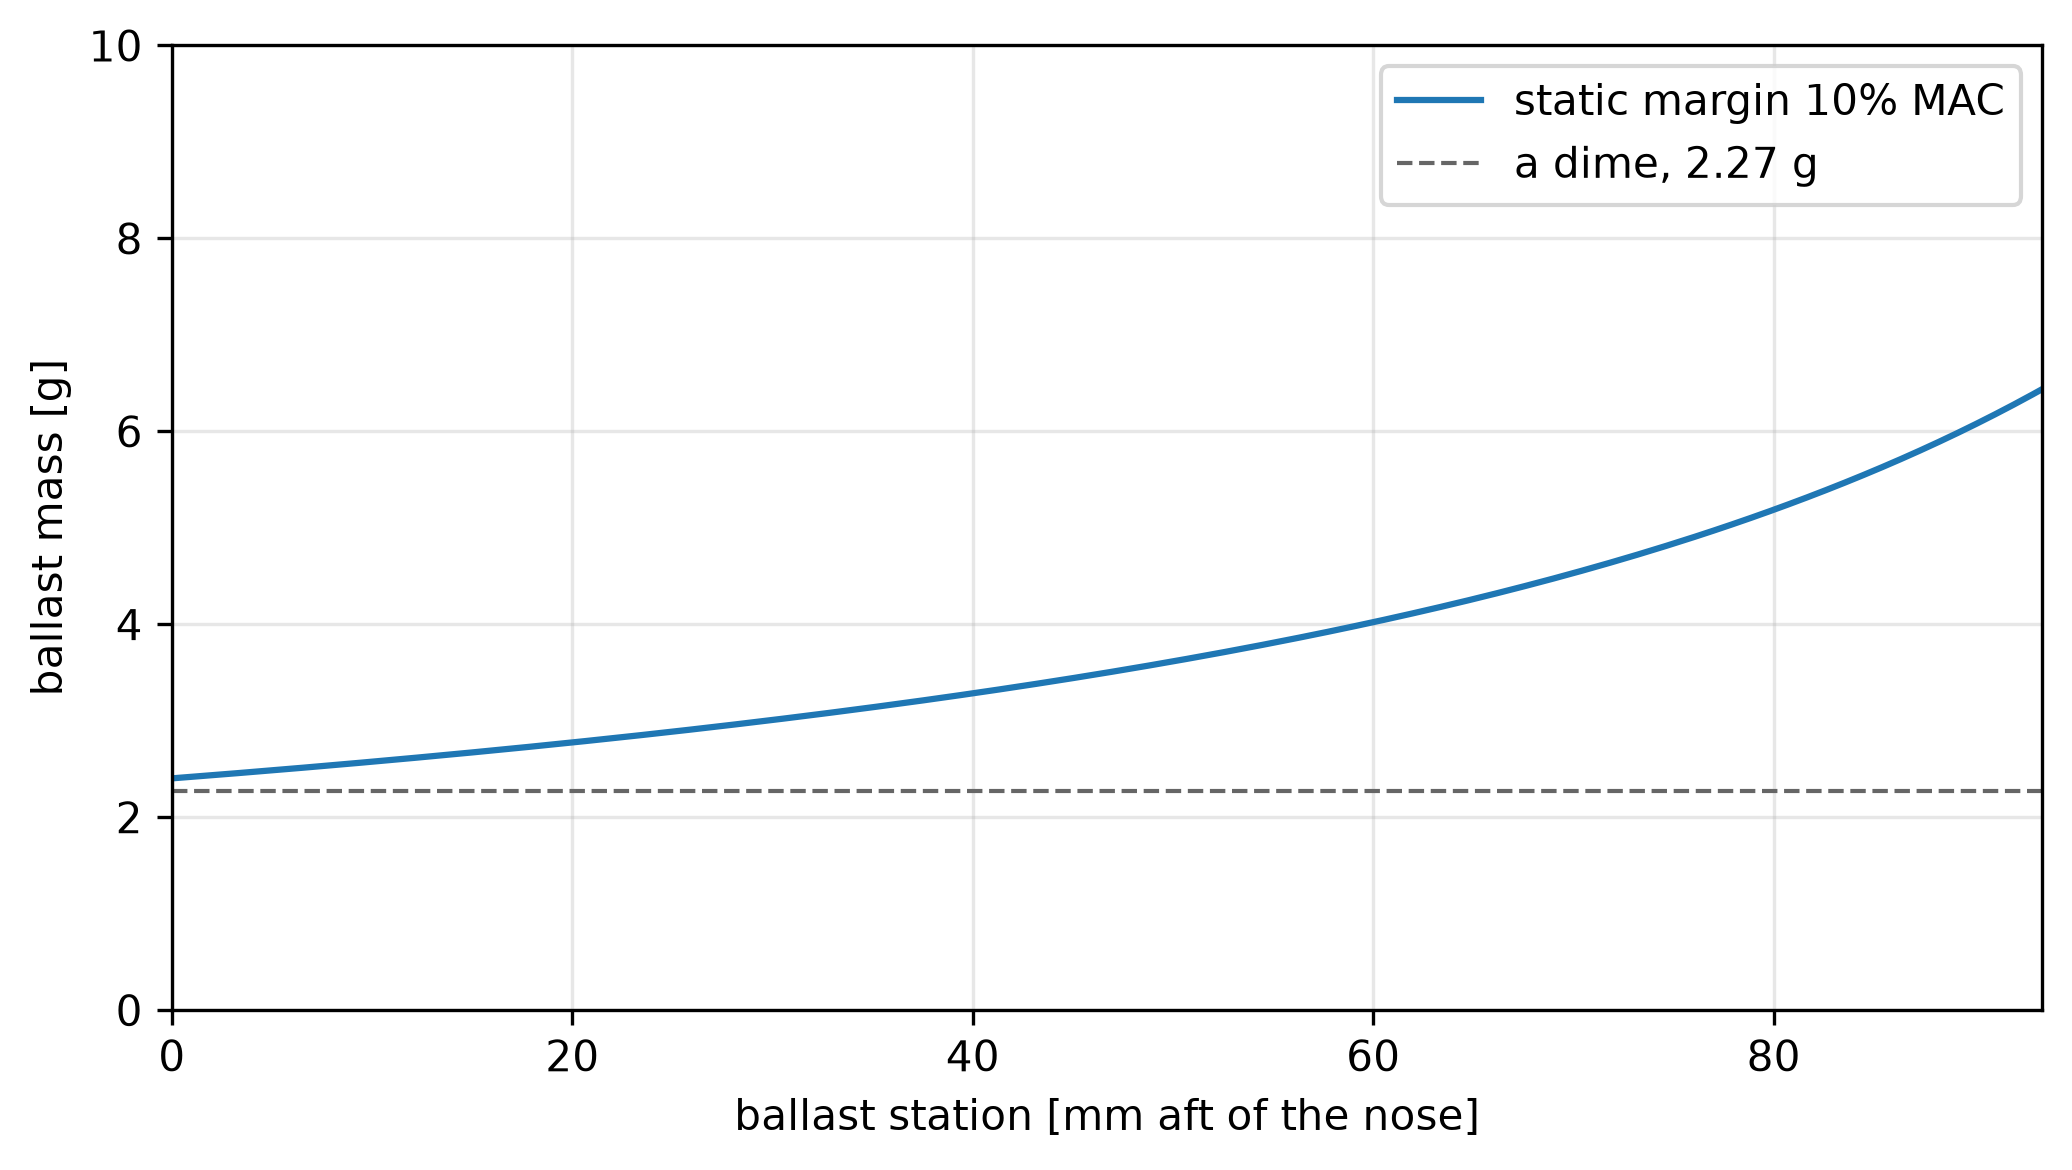
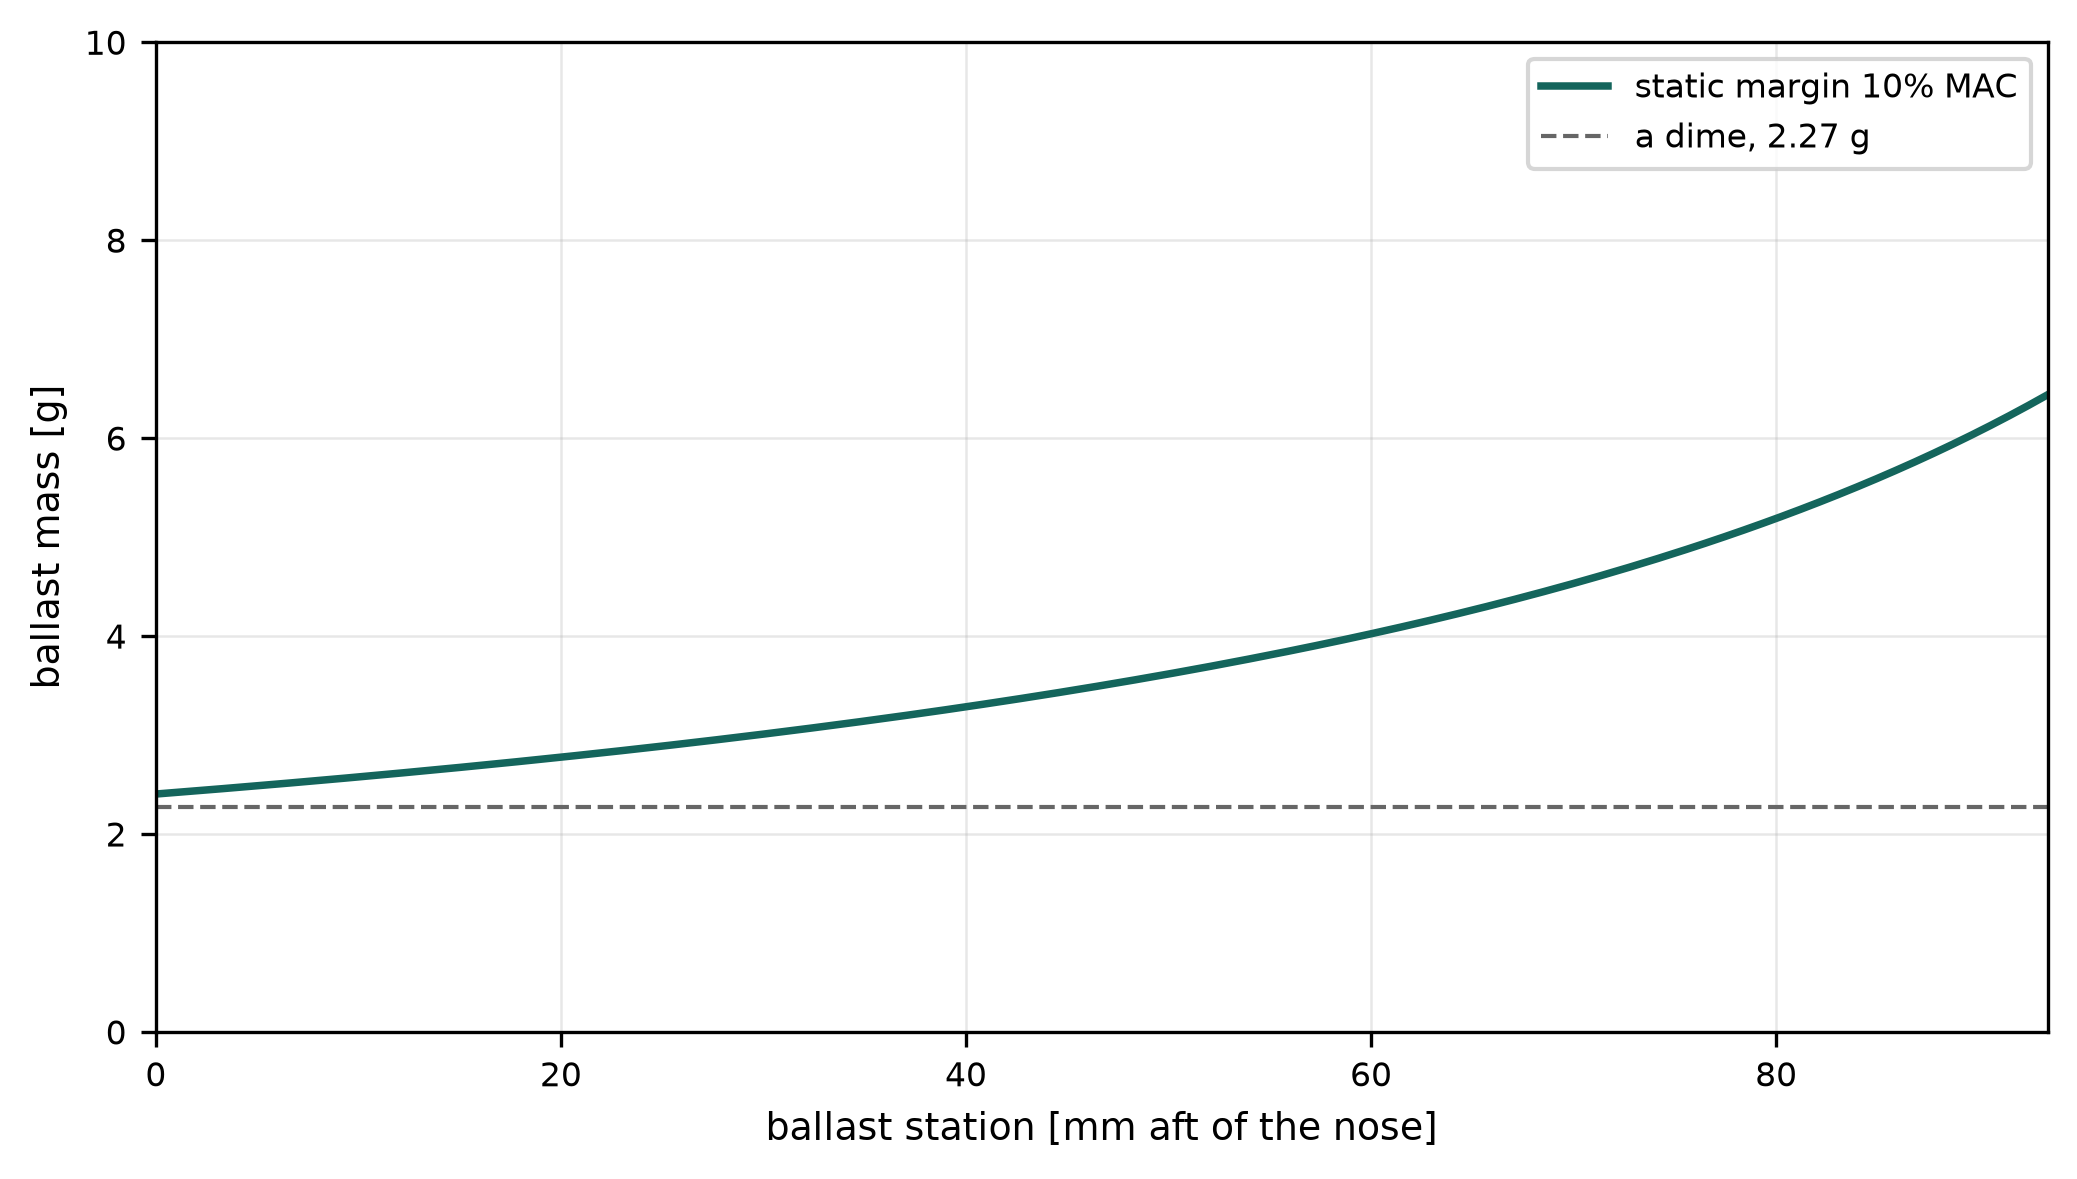
added run cost, cross links, styles

Changed region(s): [[0.0, 0.0308, 0.9884, 0.9846], [0.8649, 0.3385, 0.9884, 0.4308]]

diff --git a/aircraft-notebook/styles.css b/aircraft-notebook/styles.css
@@ -78,3 +78,17 @@ figure img,
 @media (max-width: 480px) {
   .hero-value { font-size: 2rem; }
 }
+
+/* What the entry cost to run. Printed by footer() in _notebook.py, from a timer
+   the shim starts -- freeze records no timing of its own, so without this an
+   entry's cost leaves no trace once it is written. Recessive on purpose: it is
+   provenance, not a result. */
+.runtime {
+  display: block;
+  margin-top: 2rem;
+  padding-top: 0.6rem;
+  border-top: 1px solid rgba(128, 128, 128, 0.25);
+  font-size: 0.8rem;
+  color: #6b747d;
+  font-variant-numeric: tabular-nums;
+}

diff --git a/aircraft-notebook/_notebook.py b/aircraft-notebook/_notebook.py
@@ -13,6 +13,40 @@
 # The leading underscore keeps Quarto from rendering this file, as with _scratch/.
 # =============================================================================
 import inspect
+import pathlib
+import re
+import time
+
+import matplotlib as mpl
+
+# =============================================================================
+# One plot style for the whole notebook.
+#
+# Set here rather than per entry, because a figure's job is to be read against
+# the figures around it. Before this, every figure inherited raw matplotlib
+# defaults and each width was chosen by hand, so fonts differed once matplotlib
+# scaled them and nothing aligned down the page.
+#
+# C0 is the accent from styles.css, so a curve and the hero number above it are
+# the same colour. C3 stays an alarm red -- entries use it for "past the stall",
+# and a cycle that quietly reassigned it would repaint that meaning.
+#
+# NOT set here: `axes.grid` and spine visibility. Entries call ax.grid()
+# themselves, and forcing either globally would also reach draw_three_view() and
+# the two axis("off") layout figures, which are drawings rather than plots.
+# =============================================================================
+mpl.rcParams.update({
+    "figure.figsize": (7.0, 3.2),
+    "font.size": 9, "axes.labelsize": 9, "axes.titlesize": 10,
+    "xtick.labelsize": 8, "ytick.labelsize": 8, "legend.fontsize": 8,
+    "lines.linewidth": 1.8, "grid.alpha": 0.3, "grid.linewidth": 0.6,
+    "axes.prop_cycle": mpl.cycler(color=[
+        "#14655c",   # C0 teal -- matches --key-accent, the hero colour
+        "#b8860b",   # C1 amber
+        "#5c6670",   # C2 grey
+        "#b3412c",   # C3 alarm red -- keeps its "past the stall" meaning
+    ]),
+})
 
 # =============================================================================
 # What the notebook costs to run.
@@ -82,6 +116,53 @@ def show_source(*objs):
         print()
     print("```")
     print(":::")
+
+
+def superseded_by(stem, reason):
+    """
+    Banner naming the entry that replaced this one.
+
+    The successor's title and link are read off disk rather than typed, so a
+    retitled successor cannot leave a stale label behind -- the same guarantee
+    inline expressions give numbers. A stem that matches no file, or more than
+    one, raises: a dead forward link is worse than none, because the reader
+    trusts it.
+
+    Scoped to the calling chapter, via `_CHAPTER` set by the shim. Globbing
+    `chapters/*/` instead finds two files the moment a chapter is duplicated for
+    reference, which is exactly what happened the first time this ran.
+    """
+    chapter = globals().get("_CHAPTER")
+    if chapter is None:
+        raise RuntimeError("superseded_by() needs _CHAPTER, set by _model.qmd")
+    hit = pathlib.Path(chapter) / f"{stem}.qmd"
+    if not hit.exists():
+        raise FileNotFoundError(f"superseded_by({stem!r}): no {hit}")
+    title = re.search(r'^title:\s*"(.+)"$', hit.read_text(), re.M).group(1)
+    print('::: {.callout-important}')
+    print("## Superseded\n")
+    print(f"{reason} See [{title}]({stem}.qmd).")
+    print(":::\n")
+
+
+def footer(*objs):
+    """
+    The entry's closing cell: the machinery it called, then what it cost to run.
+
+    Cost is wall clock since the shim plus the aero solves behind it -- the
+    solve count is what explains the seconds, and `polars()` already counts
+    both. Nothing else recorded this: _freeze/*/execute-results/html.json keeps
+    a hash and a result and no timing at all, so before this an entry's cost
+    left no trace once written.
+
+    Under freeze the line shows the last REAL execution, not the cache hit,
+    which is the number worth having.
+    """
+    if objs:
+        show_source(*objs)
+    n = aero_cost["calls"]
+    cost = f" · {n} aero solve{'s' if n != 1 else ''}" if n else ""
+    print(f"[Executed in {time.perf_counter() - _T0:.1f} s{cost}]{{.runtime}}")
 
 
 def api(filename="_analysis.py"):

diff --git a/aircraft-notebook/_lint.py b/aircraft-notebook/_lint.py
@@ -60,6 +60,13 @@ Five rules, each earned by a failure that actually happened in this notebook:
    100 words in each part ends up long overall. If a procedure or a caveat is
    worth keeping, it belongs inside the answer or inside a callout.
 
+10. A REFERENCE TO ANOTHER ENTRY IS A LINK. "the previous entry", "the glide
+    entry" as bare prose is the same defect as a hand-typed number: it points at
+    something that can be retitled, reordered or deleted, and nothing notices.
+    A markdown link to the `.qmd` is checked by Quarto at render, and the
+    notebook's whole structure is later entries revising earlier ones -- so
+    those references are the structure, not decoration.
+
 A value written as an inline expression counts as one word, so tightening prose
 is never at odds with computing the numbers in it.
 
@@ -98,6 +105,13 @@ BLOCK = 3  # consecutive code lines that count as a repeated block
 # static margins, five launch heights. A real sensitivity study builds its arms
 # from calls, and an analysis sweep uses linspace -- neither trips this.
 SWEPT_LITERAL = re.compile(r"^\s*(\w+)\s*=\s*\[\s*([-\d.eE, ]+)\]\s*$", re.M)
+
+# A sibling entry named in prose. Matched only outside links, so the fix -- turn
+# it into one -- silences it. "this chapter"/"this entry" are self-reference and
+# point at nothing that can drift, so they are not listed.
+ENTRY_REFERENCE = re.compile(
+    r"\bthe\s+(previous|next|last|earlier|later|first|glide|ballast|cutting|"
+    r"polars?|stall|flight|trim)\s+entry\b", re.I)
 
 
 # Calls that cost a full aero solve -- ~350 ms each on the McEagle, and rising
@@ -306,6 +320,15 @@ def check(chapters):
                 (f, f"{len(leads)} prose sections ({', '.join(l.strip()[:24] for l in leads)})"
                     f" — an entry has one: the answer. Fold the rest into it, or "
                     f"into a callout"))
+
+        # Rule 10: a sibling entry named in prose, not linked. Link *labels* are
+        # stripped first, so "[the ballast entry](….qmd)" is the fix rather than
+        # a permanent offence.
+        unlinked = re.sub(r"\[[^\]]*\]\([^)]*\)", " ", prose_of(text))
+        for ref in dict.fromkeys(m.group(0) for m in ENTRY_REFERENCE.finditer(unlinked)):
+            problems.append(
+                (f, f"{ref!r} in prose — link it: [{ref}](2026-….qmd). A bare "
+                    f"reference drifts when the target is retitled or removed"))
 
         for cap in re.findall(r"^\s*#\|\s*fig-cap:\s*(.+)$", text, re.M):
             n = words(cap.strip().strip('"'))

diff --git a/.claude/skills/design-notebook/templates/new-notebook.md b/.claude/skills/design-notebook/templates/new-notebook.md
@@ -153,6 +153,20 @@ figure img,
 @media (max-width: 480px) {
   .hero-value { font-size: 2rem; }
 }
+
+/* What the entry cost to run. Printed by footer() in _notebook.py, from a timer
+   the shim starts -- freeze records no timing of its own, so without this an
+   entry's cost leaves no trace once it is written. Recessive on purpose: it is
+   provenance, not a result. */
+.runtime {
+  display: block;
+  margin-top: 2rem;
+  padding-top: 0.6rem;
+  border-top: 1px solid rgba(128, 128, 128, 0.25);
+  font-size: 0.8rem;
+  color: #6b747d;
+  font-variant-numeric: tabular-nums;
+}
 ````
 
 ---
@@ -272,6 +286,47 @@ so neither function appears in the notebook a reader sees.
 
 ````python
 import inspect
+import pathlib
+import re
+import time
+
+import matplotlib as mpl
+
+# One plot style for the whole notebook, so figures read against each other.
+# C0 matches --key-accent in styles.css, so a curve and the hero number above it
+# are the same colour. NOT set: axes.grid and spines -- entries call ax.grid()
+# themselves, and forcing either would also reach library-drawn figures.
+mpl.rcParams.update({
+    "figure.figsize": (7.0, 3.2),
+    "font.size": 9, "axes.labelsize": 9, "axes.titlesize": 10,
+    "xtick.labelsize": 8, "ytick.labelsize": 8, "legend.fontsize": 8,
+    "lines.linewidth": 1.8, "grid.alpha": 0.3, "grid.linewidth": 0.6,
+    "axes.prop_cycle": mpl.cycler(color=["#14655c", "#b8860b",
+                                         "#5c6670", "#b3412c"]),
+})
+
+aero_cost = {"calls": 0, "seconds": 0.0}   # incremented by the chapter's solver
+
+
+def superseded_by(stem, reason):
+    """Banner naming the entry that replaced this one; title read off disk."""
+    hit = pathlib.Path(globals()["_CHAPTER"]) / f"{stem}.qmd"
+    if not hit.exists():
+        raise FileNotFoundError(f"superseded_by({stem!r}): no {hit}")
+    title = re.search(r'^title:\s*"(.+)"$', hit.read_text(), re.M).group(1)
+    print('::: {.callout-important}')
+    print("## Superseded\n")
+    print(f"{reason} See [{title}]({stem}.qmd).")
+    print(":::\n")
+
+
+def footer(*objs):
+    """Closing cell: the machinery this entry called, then what it cost to run."""
+    if objs:
+        show_source(*objs)
+    n = aero_cost["calls"]
+    cost = f" \u00b7 {n} solve{'s' if n != 1 else ''}" if n else ""
+    print(f"[Executed in {time.perf_counter() - _T0:.1f} s{cost}]{{.runtime}}")
 
 
 def show_source(*objs):
@@ -349,6 +404,13 @@ for _p in ["_notebook.py",
            "chapters/NN-name/_model.py",
            "chapters/NN-name/_analysis.py"]:
     exec(compile(pathlib.Path(_p).read_text(), _p, "exec"))
+
+# The chapter this page belongs to, taken from the paths above rather than
+# retyped -- superseded_by() resolves its forward link inside this directory.
+# Then start the entry's clock and zero the solve counter, both read by footer().
+_CHAPTER = str(pathlib.Path(_p).parent)
+_T0 = time.perf_counter()
+aero_cost.update(calls=0, seconds=0.0)
 ```
 ````
 

diff --git a/.claude/skills/design-notebook/SKILL.md b/.claude/skills/design-notebook/SKILL.md
@@ -79,12 +79,13 @@ With no user to ask — an agent running unattended — assume, and write
 
 Repeat per question. A discussion that answers nothing gets no entry.
 
-**Run `uv run python <notebook>/_lint.py` before recording an entry.** Nine
+**Run `uv run python <notebook>/_lint.py` before recording an entry.** Ten
 rules, each earned by a failure that actually happened here: no hand-typed
 numbers in prose, no code repeated across entries, the `**Answer.**` before the
 evidence, no swept decision that should have been asked, no fixed trip count
 around an aero solve, the three word budgets (100 prose / 50 caption / 10 per
-callout item), and one prose section per entry. It exits non-zero, so it can gate a commit.
+callout item), one prose section per entry, and sibling entries linked
+rather than named in prose. It exits non-zero, so it can gate a commit.
 
 ## Scope
 
@@ -122,6 +123,22 @@ broken most; when in doubt, write less.
   with its own budget, which is how an entry inside 100 words in each part ends
   up long overall. A build procedure belongs *inside* the answer, as a numbered
   list under it; a caveat belongs in a `callout-warning`.
+- **A reference to another entry is a link**, never bare prose. "the previous
+  entry" points at something that can be retitled or deleted with nothing
+  noticing; `[the ballast entry](2026-08-27-02-….qmd)` is checked at render.
+  Later entries revising earlier ones *is* the notebook's structure.
+- **An entry the work has moved past says so, at the top.** Call
+  `superseded_by("<successor stem>", "<one short sentence>")` in a cell directly
+  under the include. The successor's title and link are read off disk, so they
+  cannot go stale, and a wrong stem stops the render. Without this, an entry
+  describing a configuration that was later corrected reads — to anyone arriving
+  from the sidebar — as the current state of the aircraft.
+- **Every entry ends with one `footer(...)` cell**, passing the shared functions
+  it called. It renders the method and then what the entry cost to run. Freeze
+  records no timing of its own, so this is the only trace an entry's cost leaves.
+- **Figures share one style**, set once in `_notebook.py` — width 7.0, the
+  accent matching the hero number, `C3` reserved for alarm. Don't set fonts or
+  colours per figure.
 - **No setup line.** The title is the question and the callouts carry the
   conditions; a sentence restating what was run before the reader reaches the
   answer is throat-clearing.
